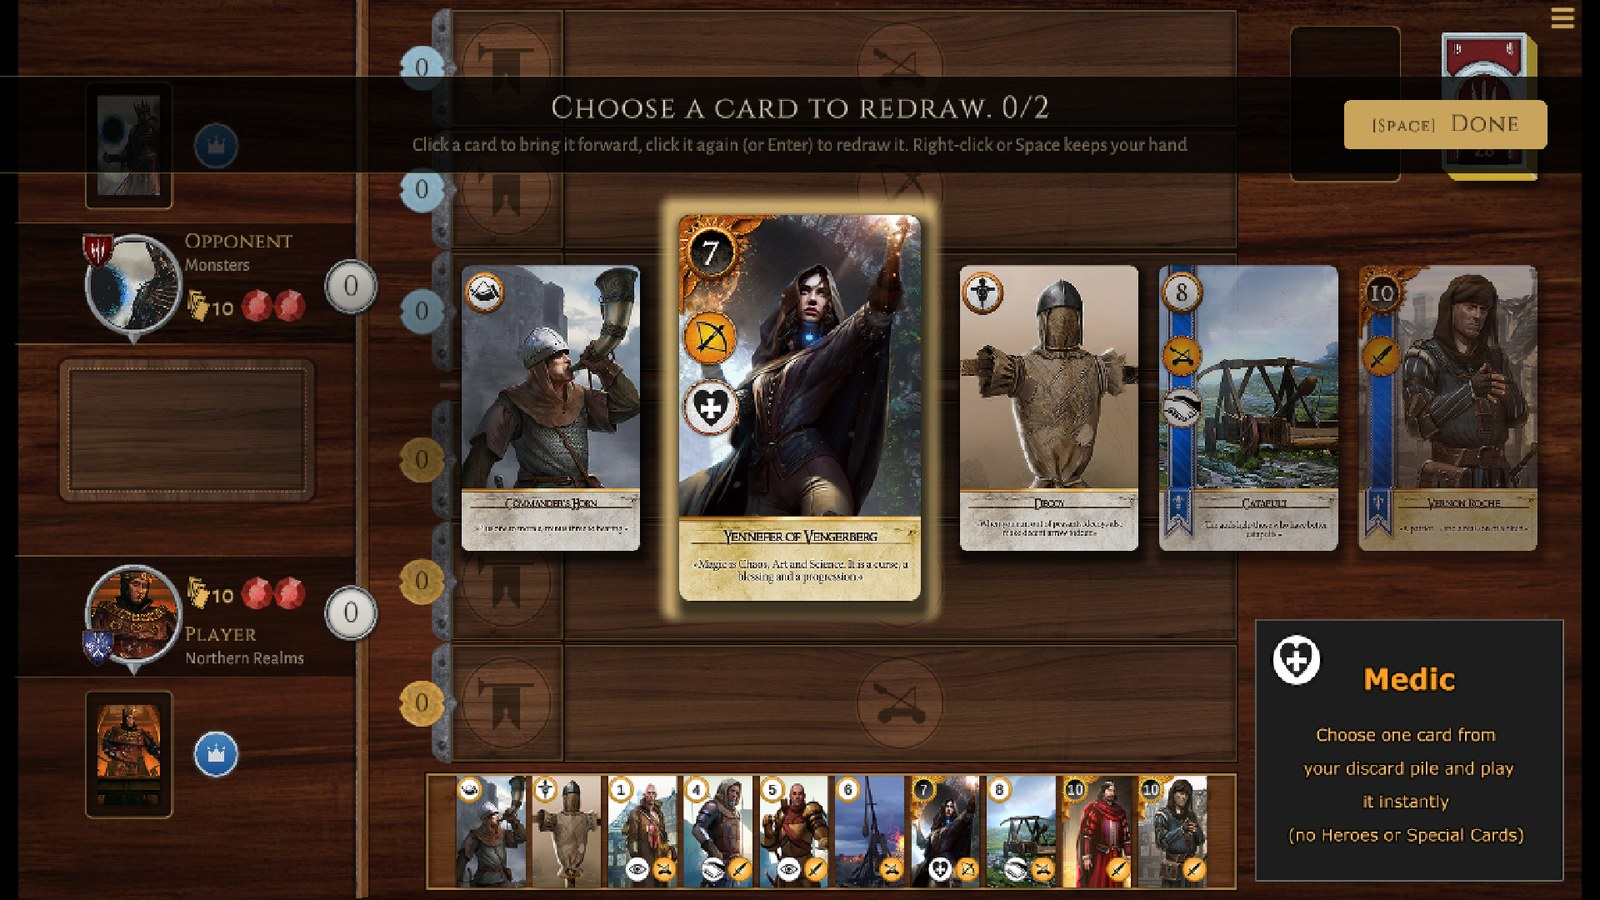
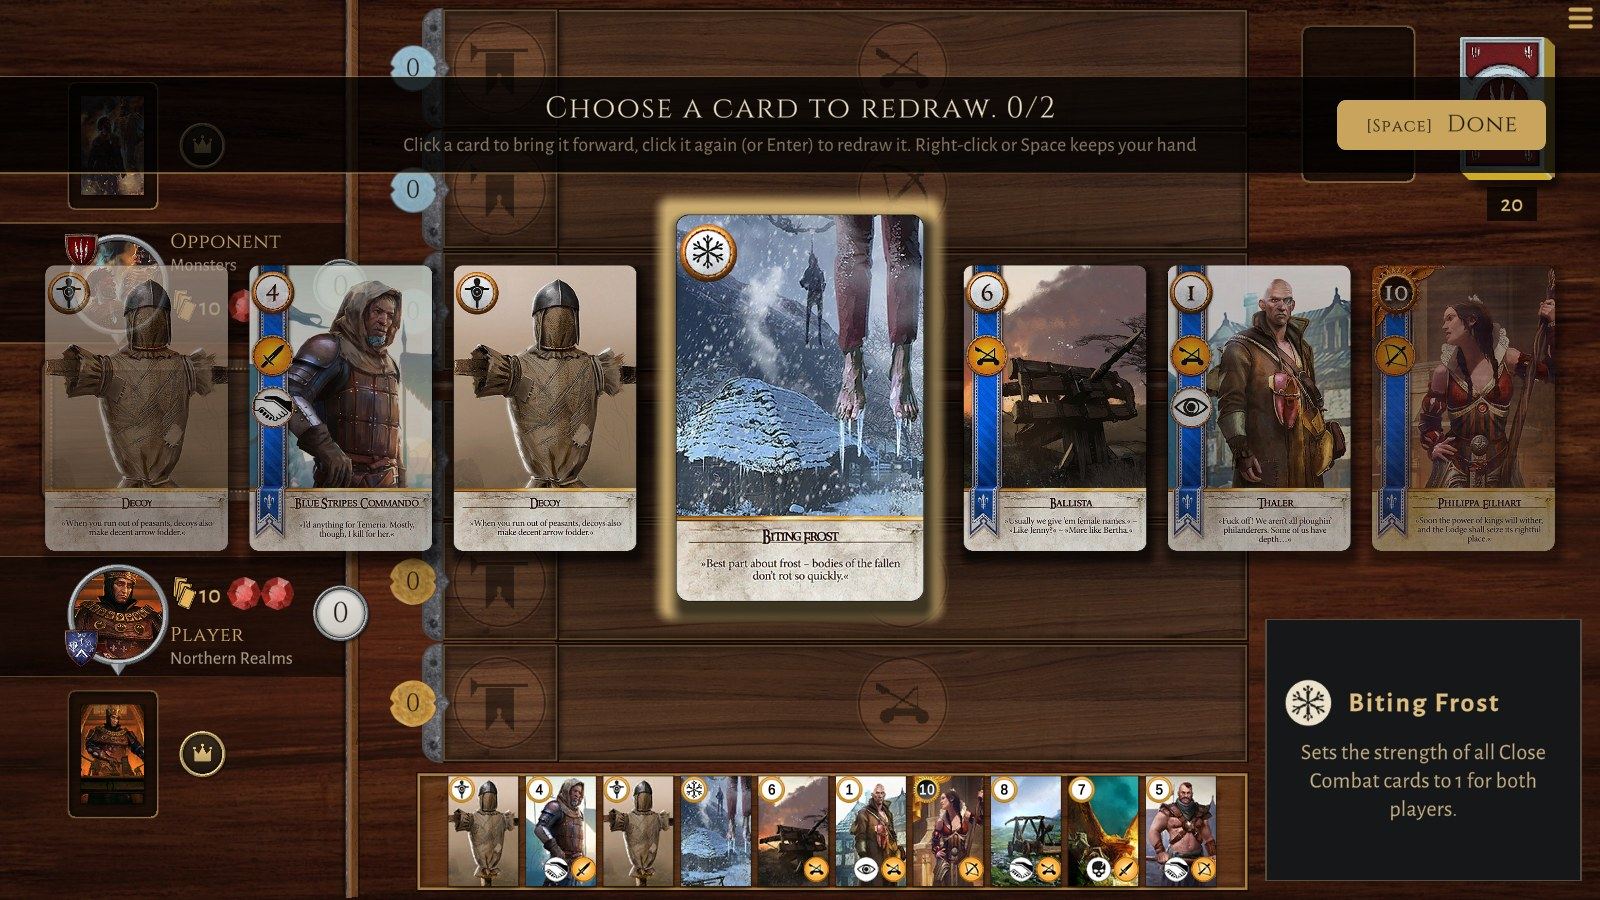
README: the screenshots show the new descriptions and weather
The battle, the showcase and the redraw are taken again (1600 x 900, as before): The Witcher 3's
frost over the close rows, the live Hero and Biting Frost description boxes. The medic, deck
builder, opponents, victory and menu shots show nothing that changed.

diff --git a/README.md b/README.md
@@ -30,7 +30,7 @@ Sorry, no multiplayer :/ (yet)
 <h3 align="center">A card in the spotlight, a medic's choice</h3>
 
 <p align="center">
-  <img src="Screenshots/showcase.jpg" width="49%" alt="Ciri selected, shown on the right with her description, her row lit">
+  <img src="Screenshots/showcase.jpg" width="49%" alt="Philippa Eilhart selected, shown on the right with her description, her row lit; Biting Frost on the close rows">
   <img src="Screenshots/medic.jpg" width="49%" alt="Yennefer's revival: units from the discard pile in the card carousel">
 </p>
 
